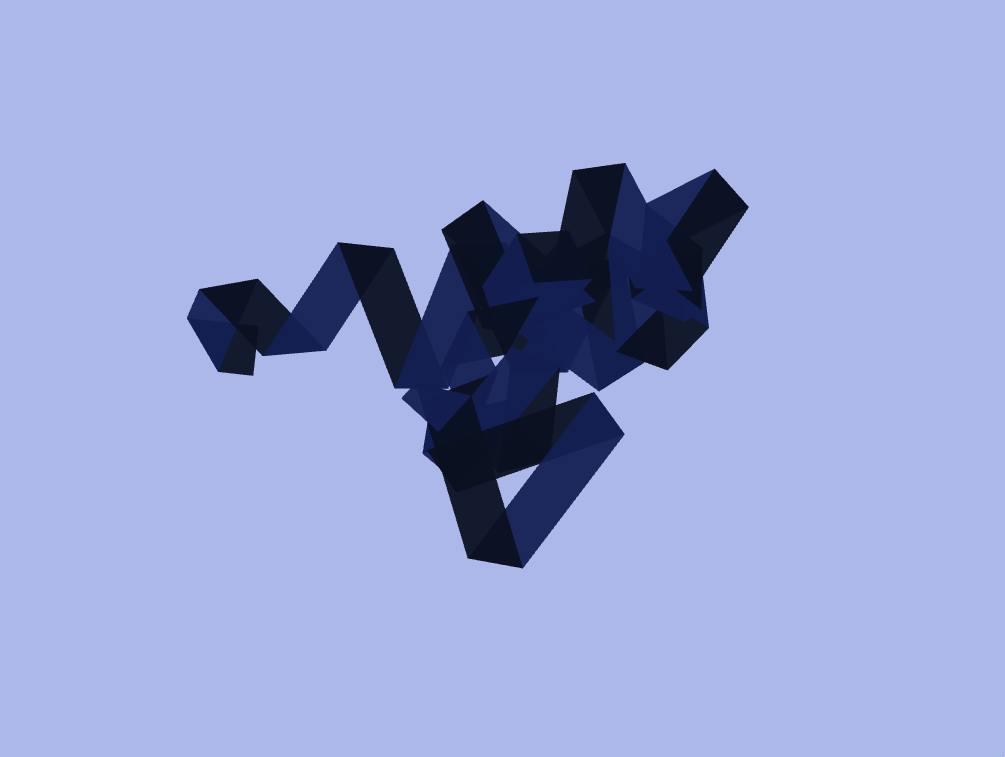
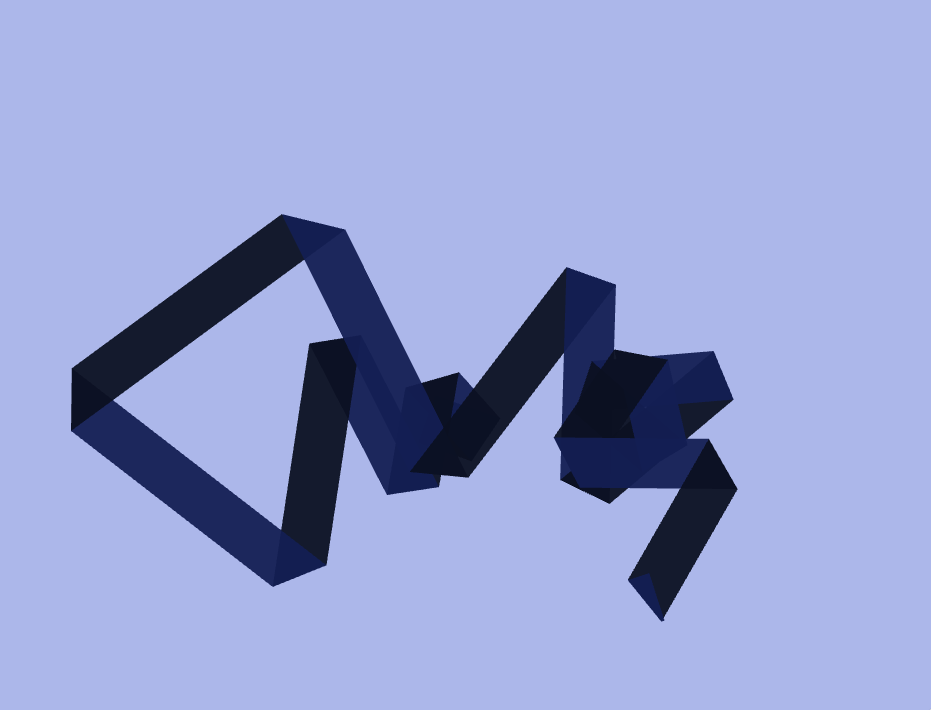
new image

Changed region(s): [[0.0623, 0.2169, 0.8099, 0.8676]]

diff --git a/src/ofApp.cpp b/src/ofApp.cpp
@@ -28,7 +28,7 @@ void ofApp::draw(
 
   float stripWidth = 50;
 
-  float length = 4000;
+  float length = 3000;
   int attempts = 0;
 draw:
 
@@ -43,7 +43,7 @@ draw:
   while (true) {
 
     // float stripLength = 25 + ofRandom(0, 200);
-    float stripLength = 25 + (ofNoise((n * 0.1) + 1000, t) * 200);
+    float stripLength = 25 + (ofNoise((n * 0.1) + 1000, t) * 300);
     stripLength = min(length, stripLength);
     length -= stripLength;
     // cout << length << "\n";
